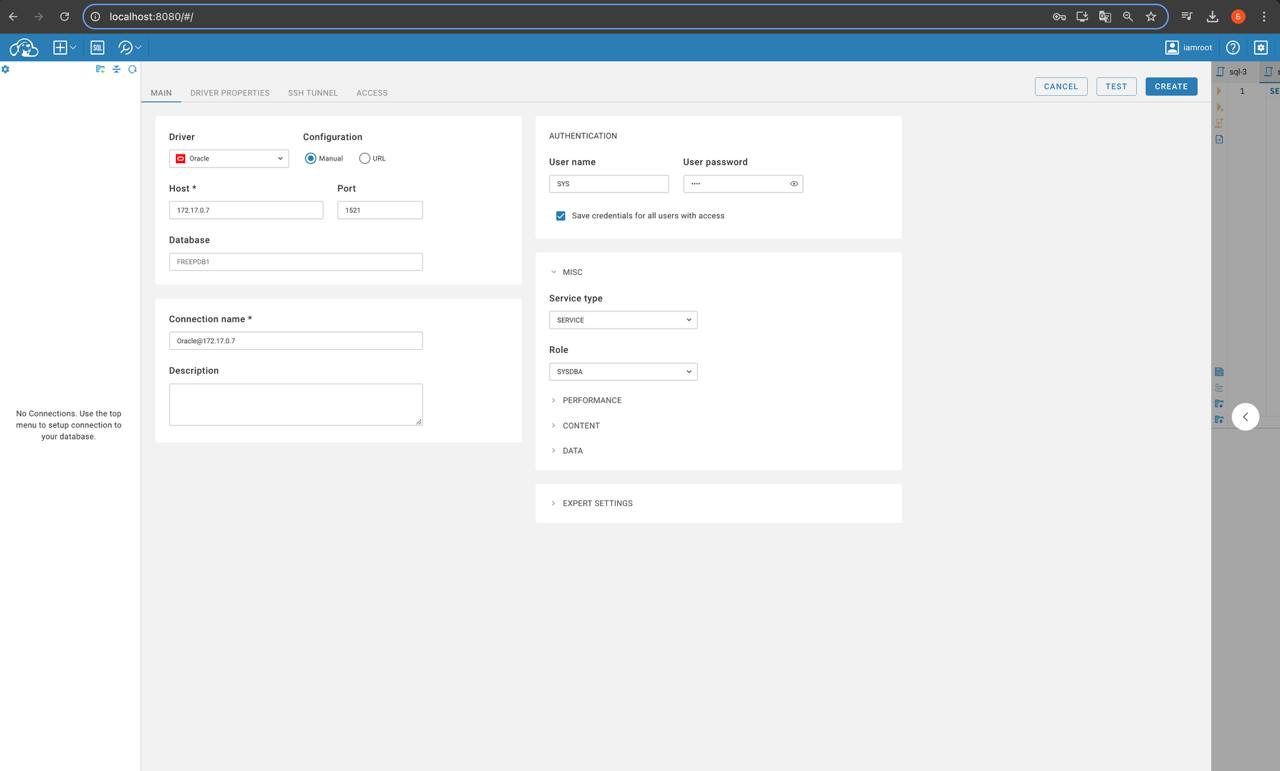
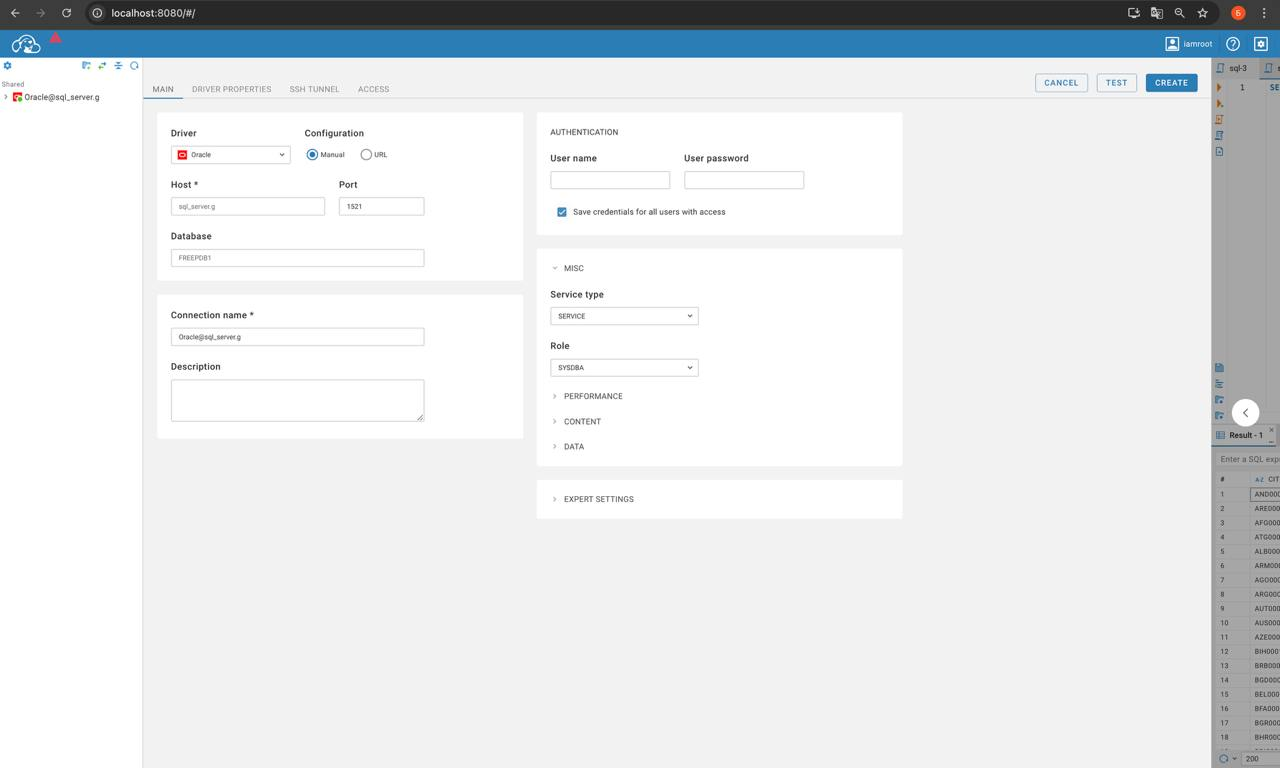
Updated docs

diff --git a/README.md b/README.md
@@ -14,7 +14,7 @@ cd oracle_db_on_linux
 mkdir data
 chmod a+rw data
 
-docker compose up
+docker compose up --build --force-recreate
 ```
 
 ## Дефолтные логины и пароли
@@ -42,21 +42,25 @@ docker compose up
 
 Теперь заходим в аккаунт смотрелки. Шестеренка в правом верхнем углу и Login.
 
-Далее чтобы подключиться к БД нужно узнать *ip* контейнера с БД.
-Сделать это можно следующей командой (работает на линуксе/маке):
+Жмакаем на плюсик в квадрате в левом верхнем углу, и на *New connection*.
 
-```
-docker inspect sql_server.g  | jq -r '.[].NetworkSettings.IPAddress'
-```
+Заполняем:
 
-Возвращаемя в смотрелку и Жмакаем на плюсик в квадрате в левом верхнем углу, и на *New connection*.
+|Название|Значение|
+|--|--|
+|Host|sql_server.g|
+|Database|FREEPDB1|
+|Service type|Service|
+|Role|SYSDBA|
+|User name|SYS|
+|User password|root|
 
-Заполняем так чтобы выглядело так же:
+так чтобы выглядело так же:
 ![Так подключаться](images/2.jpg)
 
-Только подставте свой *ip*, а не *172.17.0.7*
 
 Если хотите подключиться не как админ (SYS), то Role выберете не SYSDBA, а Normal.
+И логин/пароль соответственно другие введите.
 
 ## Доп инфа
 
